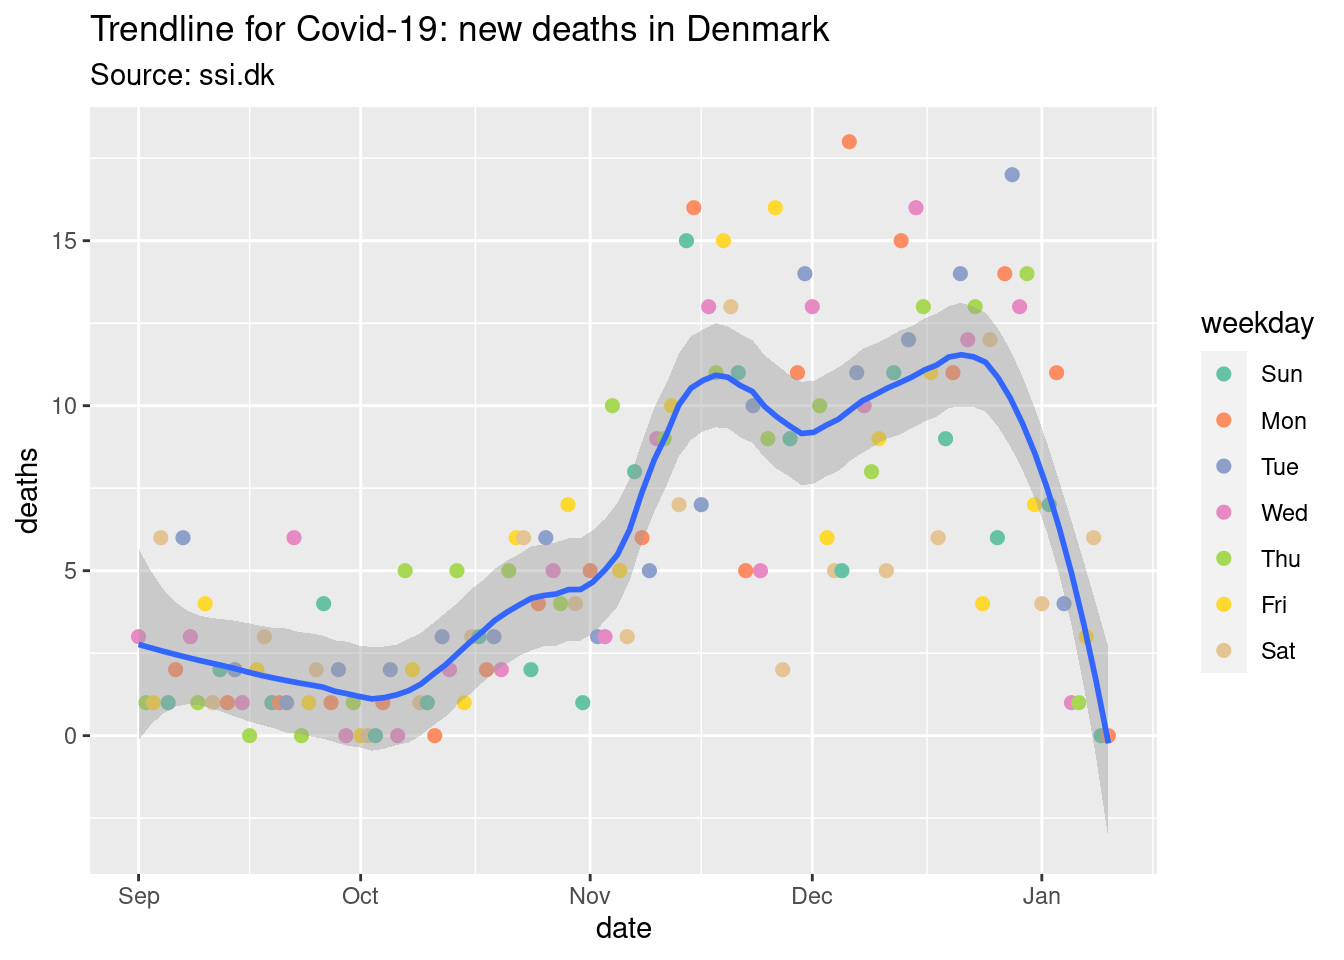
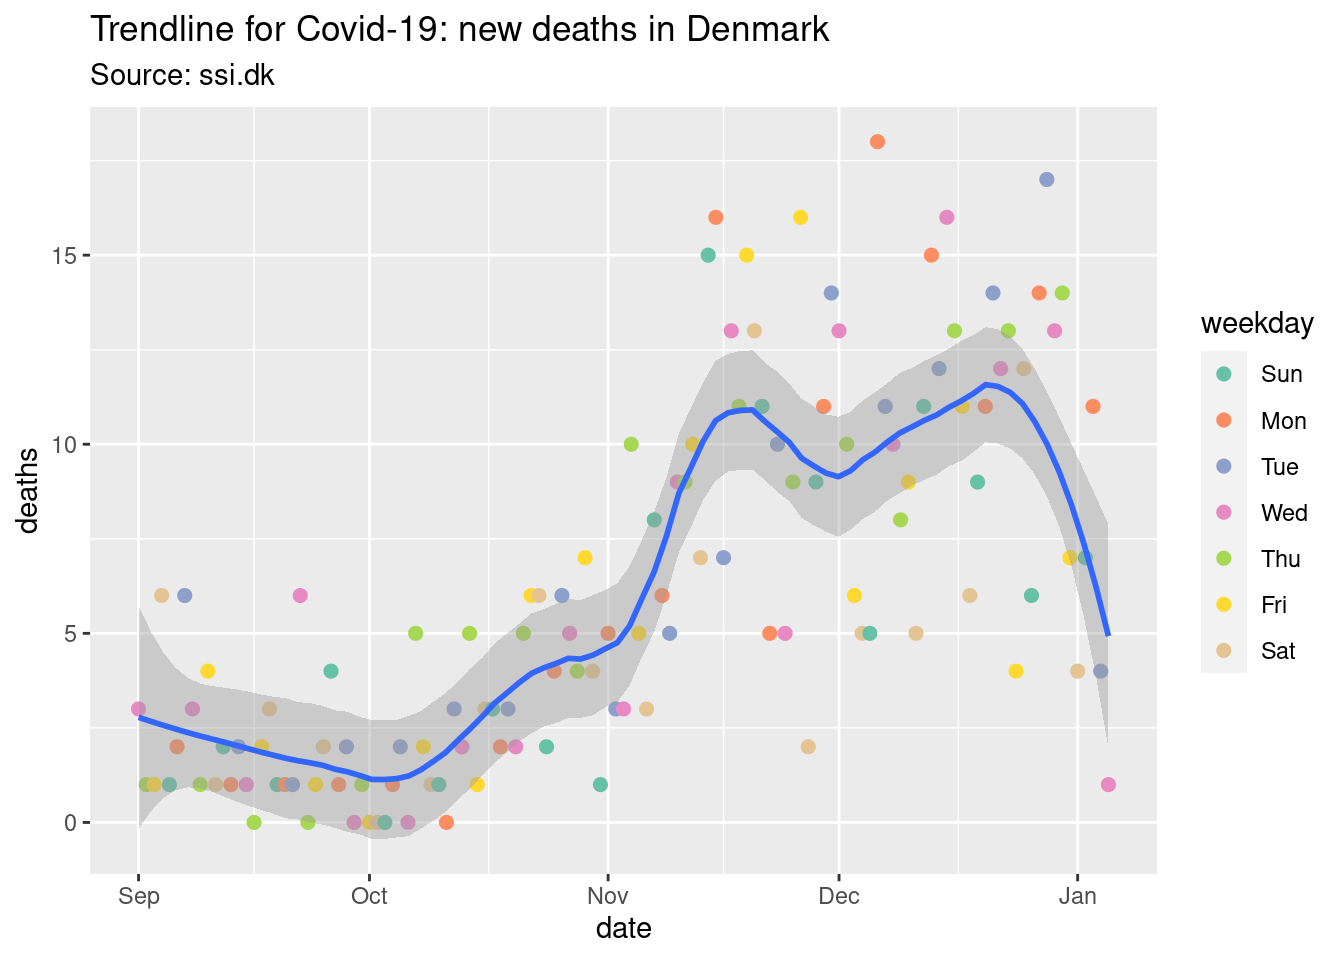
Convert more into rmarkdown.

diff --git a/docs/index.html b/docs/index.html
@@ -271,9 +271,13 @@ $(document).ready(function () {
 <li><a href="#key-numbers">Key Numbers</a></li>
 <li><a href="#weekly-key-data-split-by-age">Weekly key data split by age</a></li>
 </ul></li>
-<li><a href="#plots">Plots</a>
+<li><a href="#country-wide-data">Country-wide data</a>
 <ul>
-<li><a href="#general-key-data-plotting">General key data plotting</a></li>
+<li><a href="#country-wide-visualizations">Country-wide visualizations</a></li>
+</ul></li>
+<li><a href="#regional-data">Regional data</a>
+<ul>
+<li><a href="#regional-visualizations">Regional visualizations</a></li>
 </ul></li>
 </ul>
 </div>
@@ -449,10 +453,8 @@ data &lt;- data %&gt;% filter(week &gt;= lo_cutoff)</code></pre>
 <pre class="r"><code>weekly &lt;- data</code></pre>
 </div>
 </div>
-<div id="plots" class="section level2">
-<h2>Plots</h2>
-<div id="general-key-data-plotting" class="section level3">
-<h3>General key data plotting</h3>
+<div id="country-wide-data" class="section level2">
+<h2>Country-wide data</h2>
 <p>First, lets analyze the country-wide data set. Because data is given by each region, we must first summarize the data by summing the data from each region per day. This means we group by the <code>date</code> and then sum</p>
 <pre class="r"><code># Group by date, so we can get rid of region/gender
 country &lt;- summary %&gt;% group_by(date)
@@ -465,8 +467,8 @@ country &lt;- country %&gt;% summarize(cases = sum(cases),
 <pre class="r"><code># Create a lag column for cases
 country &lt;- country %&gt;% mutate(previous_cases = lag(cases, order_by=date),
                               weekday = lubridate::wday(date, label=TRUE))</code></pre>
-<div id="cases-in-denmark-country-wide" class="section level4">
-<h4>Cases in Denmark, country-wide</h4>
+<div id="country-wide-visualizations" class="section level3">
+<h3>Country-wide visualizations</h3>
 <p>At this point, we have readied our data, and can start plotting. First, lets plot the number of cases we have in Denmark, and supply a trend-line for the cases</p>
 <p>(<em>Aside:</em> We use ggplot2 to visualize. ggplot uses a <em>grammar</em> of graphical layers as its plotting strategy. For instance <code>p + geom_point()</code> is a form of “addition” where <code>p</code> is a plot and <code>geom_point()</code> is an x-y scatterplot of points. So the <code>+</code> means “add another layer on top of our plot.”</p>
 <p>The other keypoint is that of the <code>aes(..)</code> function. This is an <em>aesthetic</em>-mapping. For example, the expression <code>aes(x=date, y=cases)</code> means to map the <code>date</code> column to the x-axis, and the <code>cases</code> column to the y-axis. Likewise, <code>aes(color = weekday)</code> maps a tables <code>weekday</code> column into a “color dimension.”)</p>
@@ -488,60 +490,65 @@ plot_country(p, &quot;Trendline for Covid-19 cases in Denmark&quot;, &quot;Sourc
 plot_country(p, &quot;Trendline for Covid-19: new hospitalizations in Denmark&quot;, &quot;Source: ssi.dk&quot;)</code></pre>
 <pre><code>## `geom_smooth()` using formula &#39;y ~ x&#39;</code></pre>
 <p><img src="index_files/figure-html/country-hospitalizations-1.png" width="672" /></p>
-<p>And likewise for deaths</p>
-<pre class="r"><code>p &lt;- ggplot(country, aes(x=date, y=deaths))
+<p>And likewise for deaths. Since deaths tend to have a larger lag before reporting, we don’t report the last 5 days</p>
+<pre class="r"><code>hi_cutoff_deaths &lt;- max(country$date) - days(4)
+p &lt;- ggplot(country %&gt;% filter(date &lt; hi_cutoff_deaths), aes(x=date, y=deaths))
 plot_country(p, &quot;Trendline for Covid-19: new deaths in Denmark&quot;, &quot;Source: ssi.dk&quot;)</code></pre>
 <pre><code>## `geom_smooth()` using formula &#39;y ~ x&#39;</code></pre>
 <p><img src="index_files/figure-html/country-deaths-1.png" width="672" /></p>
-<hr />
-<p><em>NOTE: The following is still being written up for the document</em></p>
-<pre><code># Plot per weekday
-plot_day_of_week &lt;- function(p, filename, title, subtitle) {
-    p + geom_point() +
-        geom_jitter() +
-        scale_colour_brewer(palette=&quot;Set1&quot;) +
-        stat_boxplot(aes(fill=weekday, color=weekday), alpha=0.3) +
-        labs(title = title, subtitle = subtitle)
-
-    ggsave(filename, height=9, width=16, dpi=120)
-}
-
-p &lt;- ggplot(country, aes(x=weekday, y=(cases - previous_cases)))
-plot_day_of_week(p, &quot;cases_weekday.png&quot;, &quot;New Covid-19 cases in Denmark, day of week (2021-09-01 to 2022-01-10)&quot;, &quot;Source: ssi.dk&quot;)
-
-# Lagged data computes the difference to the day before.
-plot_country_lag &lt;- function(p, filename, title, subtitle) {
-    p + geom_point(size=3) +
+<p>The next plot computes the <em>change</em> from the day before to the next day. A positive number means “There were this many more cases today.” A negative number means “There were this fewer cases today.” This shows how data is getting more noisy once Omicron takes over and more tests are being made.</p>
+<p>As we shall see, this noise mostly comes from a single region in Denmark.</p>
+<pre class="r"><code># Lagged data computes the difference to the day before.
+plot_country_lag &lt;- function(p, title, subtitle) {
+    p + geom_point(size=1.5) +
         scale_colour_brewer(palette=&quot;Set2&quot;) +
         labs(title = title, subtitle = subtitle)
-
-    ggsave(filename, height=9, width=16, dpi=120)
 }
 
 p &lt;- ggplot(country, aes(x=date, y=(cases - previous_cases), color=weekday))
-plot_country_lag(p, &quot;cases_lag.png&quot;, &quot;Covid-19 cases change per day, Denmark&quot;, &quot;Source: ssi.dk&quot;)
+plot_country_lag(p, &quot;As Omicron took over, noise entered data in Denmark&quot;, &quot;Source: ssi.dk&quot;)</code></pre>
+<pre><code>## Warning: Removed 1 rows containing missing values (geom_point).</code></pre>
+<p><img src="index_files/figure-html/country-lagged-1.png" width="672" /></p>
+<p>Because there are some clear day-of-week structure in the data set, it’s worth looking a bit into this. In particular:</p>
+<ul>
+<li><code>Monday</code> tends to have large positive change.</li>
+<li><code>Wednesday</code> tend to have a smaller decrease.</li>
+</ul>
+<pre class="r"><code>plot_day_of_week &lt;- function(p, title, subtitle) {
+    p + scale_colour_brewer(palette=&quot;Set1&quot;) +
+        stat_boxplot(aes(fill=weekday, color=weekday), alpha=0.3) +
+        labs(title = title, subtitle = subtitle)
+}
 
-### REGIONAL DATA
-## Generally follows the same structure as for the country-wide cases.
-
-regions &lt;- summary %&gt;% group_by(date, region)
-regions &lt;- regions %&gt;% summarize(cases = sum(cases), deaths = sum(deaths), hospitalizations = sum(hospitalizations))
-regions &lt;- regions %&gt;% mutate(weekday = lubridate::wday(date, label=TRUE), order_by=date)
-
-plot_regions &lt;- function(p, filename, title, subtitle) {
-    p + geom_point(aes(color=region), size=2) +
+p &lt;- ggplot(country, aes(x=weekday, y=(cases - previous_cases)))
+plot_day_of_week(p, &quot;Some days of the week has clear over/under-representation&quot;, &quot;Source: ssi.dk&quot;)</code></pre>
+<pre><code>## Warning: Removed 1 rows containing non-finite values (stat_boxplot).</code></pre>
+<p><img src="index_files/figure-html/country-weekday-1.png" width="672" /></p>
+</div>
+</div>
+<div id="regional-data" class="section level2">
+<h2>Regional data</h2>
+<pre class="r"><code>regions &lt;- summary %&gt;% group_by(date, region)
+regions &lt;- regions %&gt;% summarize(cases = sum(cases), deaths = sum(deaths), hospitalizations = sum(hospitalizations))</code></pre>
+<pre><code>## `summarise()` has grouped output by &#39;date&#39;. You can override using the `.groups` argument.</code></pre>
+<pre class="r"><code>regions &lt;- regions %&gt;% mutate(weekday = lubridate::wday(date, label=TRUE), order_by=date)</code></pre>
+<div id="regional-visualizations" class="section level3">
+<h3>Regional visualizations</h3>
+<pre class="r"><code>plot_regions &lt;- function(p, title, subtitle) {
+    p + geom_point(aes(color=region)) +
         geom_smooth(method = &#39;loess&#39;, span = 0.3) +
         facet_grid(rows=vars(region)) +
         scale_colour_brewer(palette=&quot;Set2&quot;) +
         labs(title = title, subtitle = subtitle)
-
-    ggsave(filename, height=9, width=16, dpi=120)
 }
 
 p &lt;- ggplot(regions, aes(x=date, y=cases))
-plot_regions(p, &quot;regions.png&quot;, &quot;Covid-19 cases in Denmark, per region&quot;, &quot;Source: ssi.dk&quot;)
-
-plot_age_cases &lt;- function(p, filename, title, subtitle) {
+plot_regions(p, &quot;Copenhagen-general area (Hovedstaden) contributes most of the noise&quot;, &quot;Source: ssi.dk&quot;)</code></pre>
+<pre><code>## `geom_smooth()` using formula &#39;y ~ x&#39;</code></pre>
+<p><img src="index_files/figure-html/regional-cases-1.png" width="672" /></p>
+<hr />
+<p><em>NOTE: The following is still being written up for the document</em></p>
+<pre><code>plot_age_cases &lt;- function(p, filename, title, subtitle) {
     p + geom_raster() +
         scale_fill_continuous(type = &quot;viridis&quot;) +
         labs(title = title, subtitle = subtitle)
@@ -554,7 +561,6 @@ plot_age_cases(p, &quot;weekly_age_cases.png&quot;, &quot;Covid-19 cases per 100
 
 p &lt;- ggplot(weekly, aes(x=week, y=ageGroup, fill=tested_100k))
 plot_age_cases(p, &quot;weekly_age_tested.png&quot;, &quot;Covid-19 tests per 100k in Denmark, by age group&quot;, &quot;Source: ssi.dk&quot;)</code></pre>
-</div>
 </div>
 </div>
 
